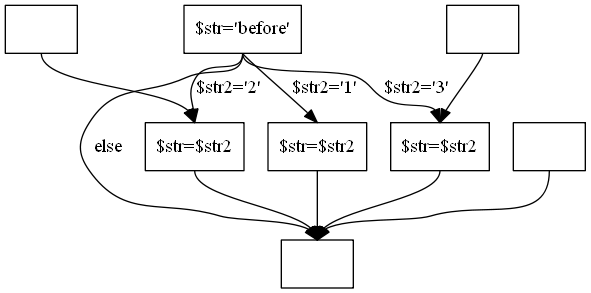
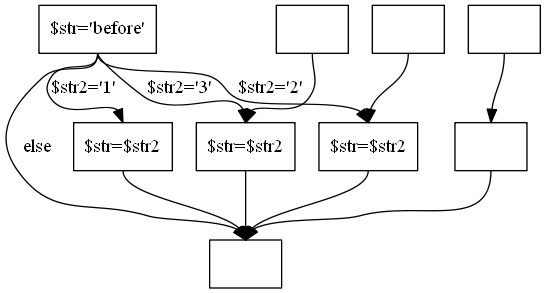
pridane testy  + opravy CFG zmeny v native funcionsresolver
git-svn-id: svn+ssh://aiya.ms.mff.cuni.cz/var/svn/weverca/trunk@210 67bba403-d36b-46c0-a350-761a85a4c57d

diff --git a/VSProjects/Realisation/Weverca.TaintedAnalysis/NativeFunctionAnalyzer.cs b/VSProjects/Realisation/Weverca.TaintedAnalysis/NativeFunctionAnalyzer.cs
@@ -9,6 +9,7 @@ using System.IO;
 
 using Weverca.Analysis;
 using PHP.Core;
+using Weverca.Analysis.Memory;
 
 namespace Weverca.TaintedAnalysis
 {
@@ -40,17 +41,32 @@ namespace Weverca.TaintedAnalysis
             this.Name = name;
             this.Arguments = arguments;
             this.ReturnType = returnType;
+            this.Analyzer = null;
         }
     }
+    
+    //TODO informacie o objektoch kvoli implementacii is_subclass, ktora je potreba pri exceptions
 
-    class NativeFunctionAnalyzer
+    public class NativeFunctionAnalyzer
     {
         private Dictionary<QualifiedName, List<NativeFunction>> allNativeFunctions = new Dictionary<QualifiedName, List<NativeFunction>>();
         private Dictionary<QualifiedName, NativeAnalyzerMethod> phalangerImplementedFunctions = new Dictionary<QualifiedName, NativeAnalyzerMethod>();
         private Dictionary<QualifiedName, NativeAnalyzerMethod> wevercaImplementedFunctions = new Dictionary<QualifiedName, NativeAnalyzerMethod>();
         private HashSet<string> types = new HashSet<string>();
-        internal NativeFunctionAnalyzer()
+
+        private static NativeFunctionAnalyzer instance=null;
+        
+        private NativeFunctionAnalyzer()
         {
+        }
+
+        static public NativeFunctionAnalyzer CreateInstance()
+        {
+            if (instance != null)
+            {
+                return instance;
+            }
+            instance = new NativeFunctionAnalyzer();
             string function = "";
             string returnType = "";
             string functionAlias = "";
@@ -71,13 +87,13 @@ namespace Weverca.TaintedAnalysis
                             QualifiedName functionName = new QualifiedName(new Name(function));
                             if (functionAlias != null)
                             {
-                                allNativeFunctions[functionName] = allNativeFunctions[new QualifiedName(new Name(functionAlias))];
+                                instance.allNativeFunctions[functionName] = instance.allNativeFunctions[new QualifiedName(new Name(functionAlias))];
                             }
-                            types.Add(reader.GetAttribute("returnType"));
+                            instance.types.Add(reader.GetAttribute("returnType"));
                         }
                         else if (reader.Name == "arg")
                         {
-                            types.Add(reader.GetAttribute("type"));
+                            instance.types.Add(reader.GetAttribute("type"));
                             bool optional=false;
                             bool byReference=false;
                             bool dots = false;
@@ -108,35 +124,35 @@ namespace Weverca.TaintedAnalysis
                         if (reader.Name == "function")
                         {
                             QualifiedName functionName = new QualifiedName(new Name(function));
-                            if (!allNativeFunctions.ContainsKey(functionName))
+                            if (!instance.allNativeFunctions.ContainsKey(functionName))
                             {
-                                allNativeFunctions[functionName] = new List<NativeFunction>();
+                                instance.allNativeFunctions[functionName] = new List<NativeFunction>();
                             }
-                            allNativeFunctions[functionName].Add(new NativeFunction(functionName, returnType, arguments));
+                            instance.allNativeFunctions[functionName].Add(new NativeFunction(functionName, returnType, arguments));
                             
                         }
                         break;
                 }
             }
-            var it=types.GetEnumerator();
+            var it = instance.types.GetEnumerator();
             while (it.MoveNext())
             {
                 Console.WriteLine(it.Current);
                
             }
-
+            return instance;
         }
 
 
-        bool existNativeFunction(QualifiedName name)
+        public bool existNativeFunction(QualifiedName name)
         {
             return allNativeFunctions.Keys.Contains(name);
         }
-        QualifiedName[] getNativeFunctions()
+        public QualifiedName[] getNativeFunctions()
         {
             return allNativeFunctions.Keys.ToArray();
         }
-        NativeAnalyzerMethod getNativeAnalyzer(QualifiedName name)
+        public NativeAnalyzerMethod getNativeAnalyzer(QualifiedName name)
         {
             if(!existNativeFunction(name))
             {
@@ -151,22 +167,44 @@ namespace Weverca.TaintedAnalysis
             {
                 return phalangerImplementedFunctions[name];
             }
-            else{
-                if (allNativeFunctions[name] == null)
+            else if (existNativeFunction(name))
+            {
+                if (allNativeFunctions[name][0].Analyzer == null)
                 {
-                    //create and return analyzer
+                    AnalyzerClass analyzer = new AnalyzerClass(allNativeFunctions[name]);
+                    allNativeFunctions[name][0].Analyzer = new NativeAnalyzerMethod(analyzer.analyze);
                 }
-                else 
-                {
-                    return allNativeFunctions[name][0].Analyzer;
-                }
+                return allNativeFunctions[name][0].Analyzer;
+                
             }
+            //doesnt exist
             return null;
         }
+
         public static void Main(string[] args)
         {
-            new NativeFunctionAnalyzer();
+            NativeFunctionAnalyzer.CreateInstance();
         }
-    }    
-    
+    }
+
+    class AnalyzerClass
+    {
+        List<NativeFunction> nativeFunctions;
+        public AnalyzerClass(List<NativeFunction> nativeFunctions)
+        {
+            this.nativeFunctions = nativeFunctions;
+        }
+
+        public void analyze(FlowController flow)
+        {
+            //check number of arduments
+            
+            //int argumentNumber pocet argumentov
+            //check types
+            //return value
+            var possibleValues = new List<Value>();
+            possibleValues.Add(flow.OutSet.AnyValue);
+            flow.OutSet.Assign(flow.OutSet.ReturnValue, new MemoryEntry(possibleValues.ToArray()));
+        }
+    }
 }

diff --git a/VSProjects/Realisation/Weverca.ControlFlowGraph/CFGVisitor.cs b/VSProjects/Realisation/Weverca.ControlFlowGraph/CFGVisitor.cs
@@ -165,19 +165,6 @@ namespace Weverca.ControlFlowGraph
         }
     }
 
-    //TODO multiple labels, no labels for jump. Is there an exception??? - malo by to vyhodit ControlFlowException
-    //TODO kod 
-    /*
-     a:
-     a:
-     echo $a;
-     goto a;
-     goto b;
-     */
-    //sposobuje zacyklenie
-
-
-
     /// <summary>
     /// AST visitor, which contructs controlflow graph.
     /// </summary>
@@ -439,7 +426,7 @@ namespace Weverca.ControlFlowGraph
             currentBasicBlock = functionBasicBlock;
 
             //Store actual Label data - function has its own label namespace 
-            LabelDataDictionary oldLabelData = labelDictionary;
+            
             labelDictionary = new LabelDataDictionary();
 
             //Add function sink to the stack for resolving returns
@@ -460,7 +447,6 @@ namespace Weverca.ControlFlowGraph
             DirectEdge.MakeNewAndConnect(currentBasicBlock, functionSink);
 
             //Loads previous labels
-            labelDictionary = oldLabelData;
             currentBasicBlock = current;
 
             return functionBasicBlock;
@@ -596,8 +582,12 @@ namespace Weverca.ControlFlowGraph
             //in case of switch statement, continue and break means the same so we make the egde allways to the block under the switch
             BasicBlock underLoop = new BasicBlock();
             loopData.Push(new LoopData(underLoop, underLoop));
+
+
             
-            foreach (var switchItem in x.SwitchItems) {
+            for (int j = 0;j<x.SwitchItems.Count;j++) {
+
+                var switchItem = x.SwitchItems[j];
 
                 Expression right = null;
                 if (switchItem.GetType() == typeof(CaseItem))
@@ -607,12 +597,22 @@ namespace Weverca.ControlFlowGraph
                 }
                 else 
                 {
-                    DirectEdge.MakeNewAndConnect(above, currentBasicBlock);
-                    //TODO last default sa vykonava
-                    if (containsDefault == false)
+                    bool hasMoreDefaults = false;
+                    for (int i = j+1; i < x.SwitchItems.Count; i++)
                     {
-                        containsDefault = true;
+                        if (x.SwitchItems[i].GetType() == typeof(DefaultItem))
+                        {
+                            hasMoreDefaults = true;
+                        }
                     }
+
+                        if (hasMoreDefaults == false)
+                        {
+                            //conecting only to last default
+                            DirectEdge.MakeNewAndConnect(above, currentBasicBlock);
+                        }
+                    containsDefault = true;
+                    
                 }
                 
                 
@@ -620,7 +620,7 @@ namespace Weverca.ControlFlowGraph
                 last = currentBasicBlock;
                 currentBasicBlock = new BasicBlock();
                 DirectEdge.MakeNewAndConnect(last, currentBasicBlock);
-   
+                
             }
             loopData.Pop();
             DirectEdge.MakeNewAndConnect(currentBasicBlock, underLoop);

diff --git a/VSProjects/Realisation/Weverca.ControlFlowGraph/ControlFlowGraph.cs b/VSProjects/Realisation/Weverca.ControlFlowGraph/ControlFlowGraph.cs
@@ -212,9 +212,20 @@ namespace Weverca.ControlFlowGraph
                     {
                         FunctionDecl function = (FunctionDecl)statement;
                         label += "function " + function.Function.Name+ Environment.NewLine;
-                        ControlFlowGraph cfg = new ControlFlowGraph(globalCode, function);
-                        functionsResult+=cfg.generateText((counter / 10000 + 1) * 10000);
-                        counter+=10000;
+                        
+                        try
+                        {
+                            ControlFlowGraph cfg = new ControlFlowGraph(globalCode, function);
+                             functionsResult+=cfg.generateText((counter / 10000 + 1) * 10000);
+                            counter+=10000;
+                        }
+                        catch (Weverca.ControlFlowGraph.ControlFlowException e)
+                        {
+                            Console.WriteLine(e.Message);
+                            return "";
+                        }
+                      
+                       
                     }
                      /*
                      rekurzivne generovanie cfg a textovej reprezentacii pre metody objektov
@@ -227,9 +238,17 @@ namespace Weverca.ControlFlowGraph
                         {
                             if (method.GetType() == typeof(MethodDecl))
                             {
+                                try
+                                {
                                 ControlFlowGraph cfg = new ControlFlowGraph(globalCode, method as MethodDecl);
                                 functionsResult += cfg.generateText((counter / 10000 + 1) * 10000);
                                 counter += 10000;
+                                }
+                                catch (Weverca.ControlFlowGraph.ControlFlowException e)
+                                {
+                                    Console.WriteLine(e.Message);
+                                    return "";
+                                }
                             }
                         }
                         

diff --git a/PHP_sources/goto_test.php b/PHP_sources/goto_test.php
@@ -1,9 +1,8 @@
 <?
-goto a;
 a:
 a:
 echo $a;
-//goto a;
+goto a;
 goto b;
 
 ?>

diff --git a/PHP_sources/continue_fail.php b/PHP_sources/continue_fail.php
@@ -1,0 +1,6 @@
+<?
+function f(){
+continue;
+
+}
+?>

diff --git a/PHP_sources/break_fail.php b/PHP_sources/break_fail.php
@@ -1,0 +1,5 @@
+<?
+echo "breaking";
+break;
+
+?>

diff --git a/PHP_sources/goto_fail2.php b/PHP_sources/goto_fail2.php
@@ -1,0 +1,5 @@
+<?
+function f(){
+goto b;
+}
+?>

diff --git a/PHP_sources/goto_fail.php b/PHP_sources/goto_fail.php
@@ -1,0 +1,6 @@
+<?
+function f(){
+a:
+a:
+}
+?>
